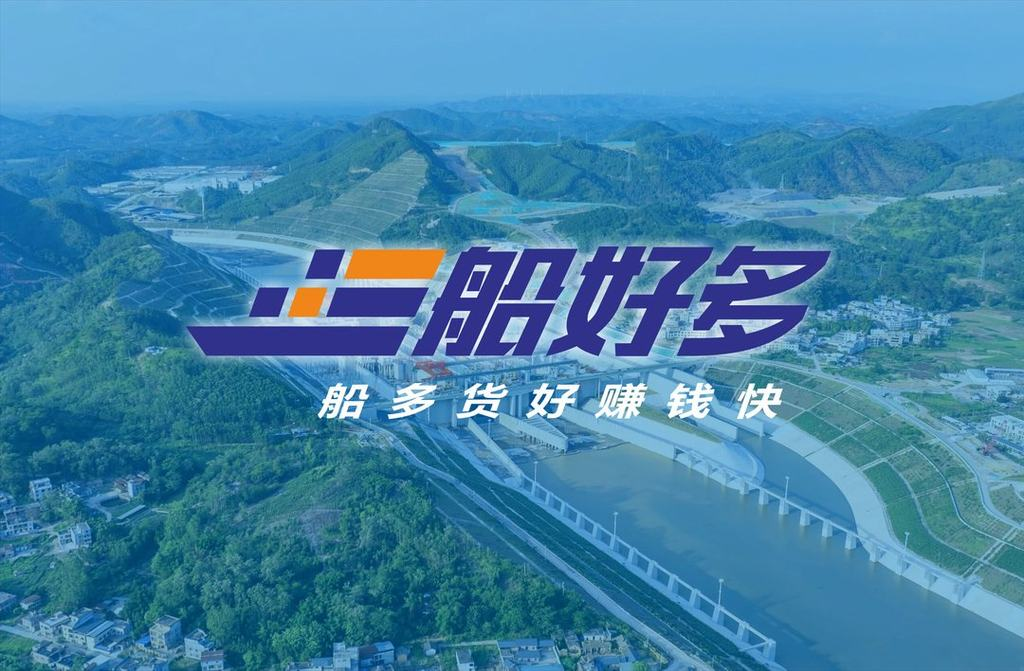
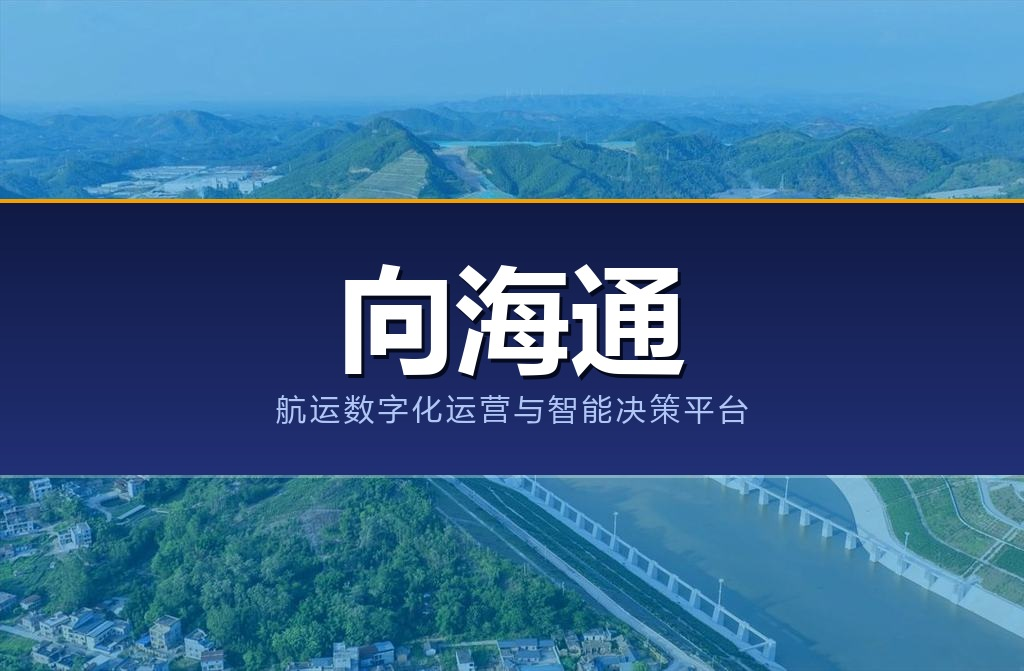
feat(miniapp): 品牌字样统一为「向海通」
软著申报的软件名称是「向海通航运数字化运营与智能决策平台」，而小程序
界面仍是开发期代号「船好多」，操作手册截图与申报名称对不上。本次只改
对外可见的品牌字样，不动任何业务逻辑、接口与页面结构。

- 导航栏标题（app.json / pages/index/index.json）→「向海通」
- 发货方式弹层的两段说明文案（cargo.wxml）→「向海通平台」
- 首页品牌头图 home-hero.jpg 是位图，「船好多」直接画在像素里，
  改文字无效；保留真实航拍底图，用不透明品牌带覆盖旧标识区域后重绘
  字标与副标题（覆盖范围含整条旧标识与下方标语，任意 aspectFill 裁切
  都不会露出旧字）
- 同步走查脚本里写死的文案断言（verify_miniapp_device.js /
  verify_miniapp_devtools.py），否则 ⑮ 章会误报「文案缺失」

验证：verify_miniapp / verify_routes / verify_entrust_ui（1370 项）/
verify_require_paths / verify_wxml_directives / verify_tabbar_targets 全绿；
miniapp 与 scripts 内已无「船好多」残留。

diff --git a/scripts/verify_miniapp_device.js b/scripts/verify_miniapp_device.js
@@ -874,8 +874,8 @@ const log = (t, o) => console.log(`[${t}]`, typeof o === 'string' ? o : JSON.str
     for (const el of await cp.$$('.ch-desc')) descs.push((await el.text()).replace(/\s+/g, ''))
     rec('⑮ 两段说明文案齐全（自行找船 / 平台承运）',
       descs.length === 2 &&
-      /自行在船好多平台找寻认证船主接单并完成运输。$/.test(descs[0] || '') &&
-      /委托给船好多平台承运，由平台组织运力完成运输。$/.test(descs[1] || ''),
+      /自行在向海通平台找寻认证船主接单并完成运输。$/.test(descs[0] || '') &&
+      /委托给向海通平台承运，由平台组织运力完成运输。$/.test(descs[1] || ''),
       descs.join(' || '))
     rec('⑮ 两枚单选圈 + 「默认」标记（设计稿元素齐全）',
       (await cp.$$('.ch-ring')).length === 2 && (await cp.$$('.ch-radio-label')).length === 2)

diff --git a/scripts/verify_miniapp_devtools.py b/scripts/verify_miniapp_devtools.py
@@ -788,8 +788,8 @@ _STATE: dict = {}
 ARTIFACT_ID = 5
 
 # ⑮ 章文案（逐字对齐设计稿）
-DESC_SELF = "您发布货物，自行在船好多平台找寻认证船主接单并完成运输。"
-DESC_ENTRUST = "您发布货物，委托给船好多平台承运，由平台组织运力完成运输。"
+DESC_SELF = "您发布货物，自行在向海通平台找寻认证船主接单并完成运输。"
+DESC_ENTRUST = "您发布货物，委托给向海通平台承运，由平台组织运力完成运输。"
 
 
 class Reporter:
@@ -1586,7 +1586,7 @@ def sec_15(w: Walker) -> None:
     )
 
     # 文案：`--action text` 只能读第一个匹配项 → 用整块 WXML 做包含断言（等价）。
-    # ⚠ 必须先剥掉标签：desc 文案里嵌了 `<text class="ch-brand">船好多</text>`，
+    # ⚠ 必须先剥掉标签：desc 文案里嵌了 `<text class="ch-brand">向海通</text>`，
     # 标签会把纯文本切断（2026-09-13 实测踩到，误报为「文案缺失」）。
     panel = re.sub(r"\s+", "", re.sub(r"<[^>]+>", "", w.c.outer_wxml(".ch-panel")))
     w.rep.rec(
